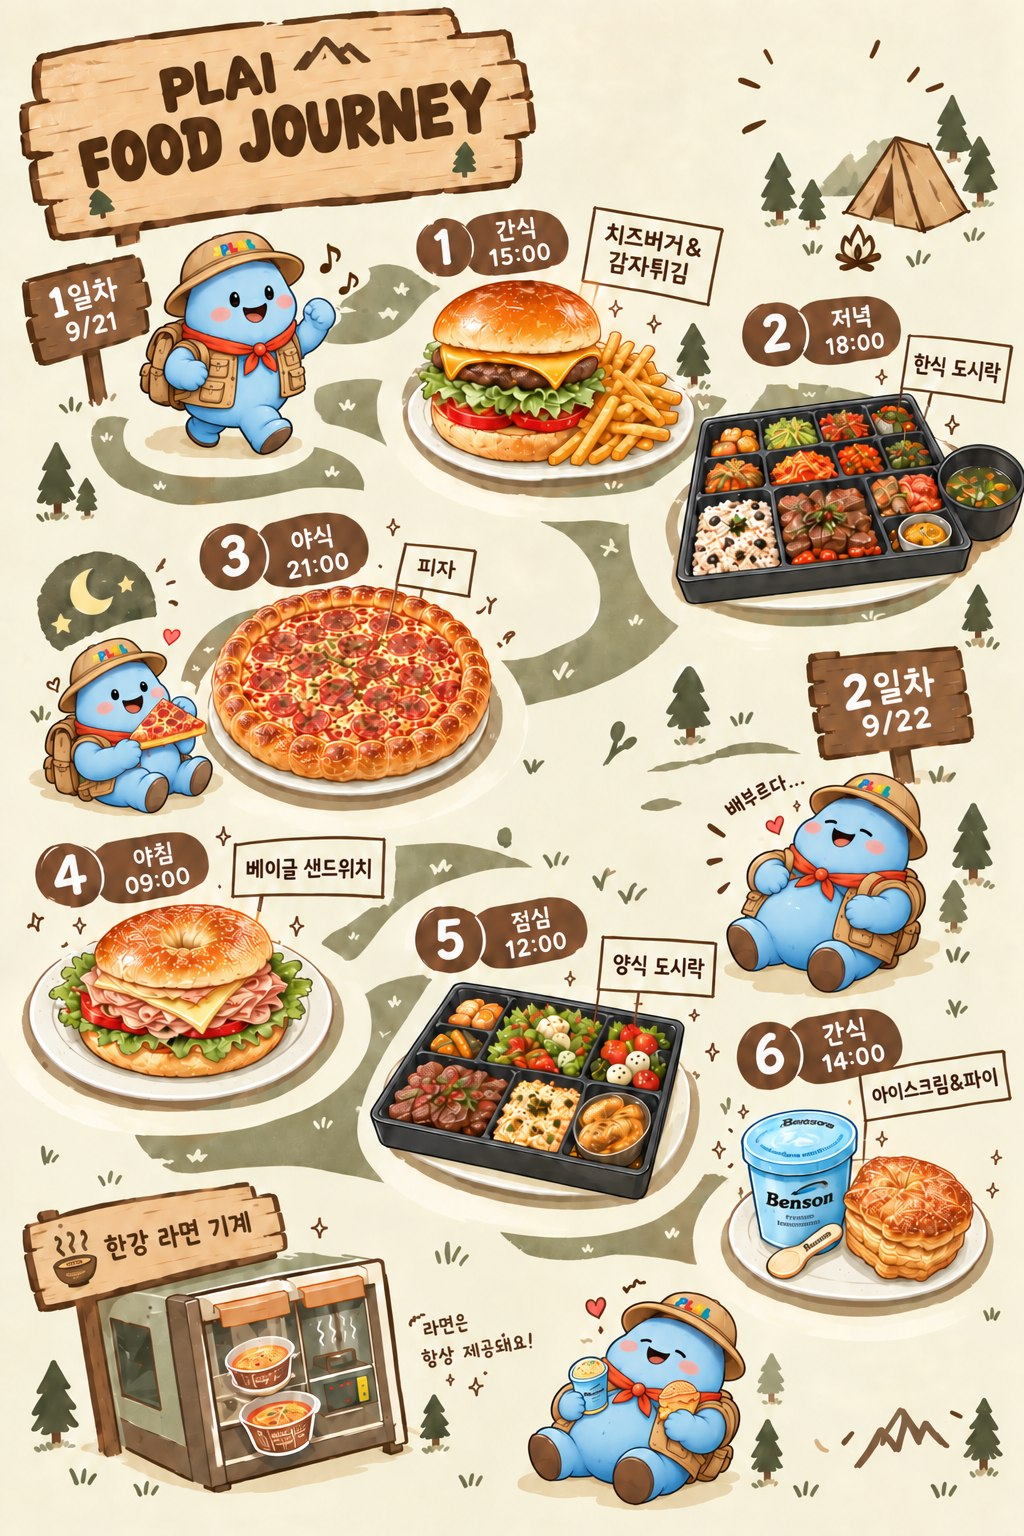
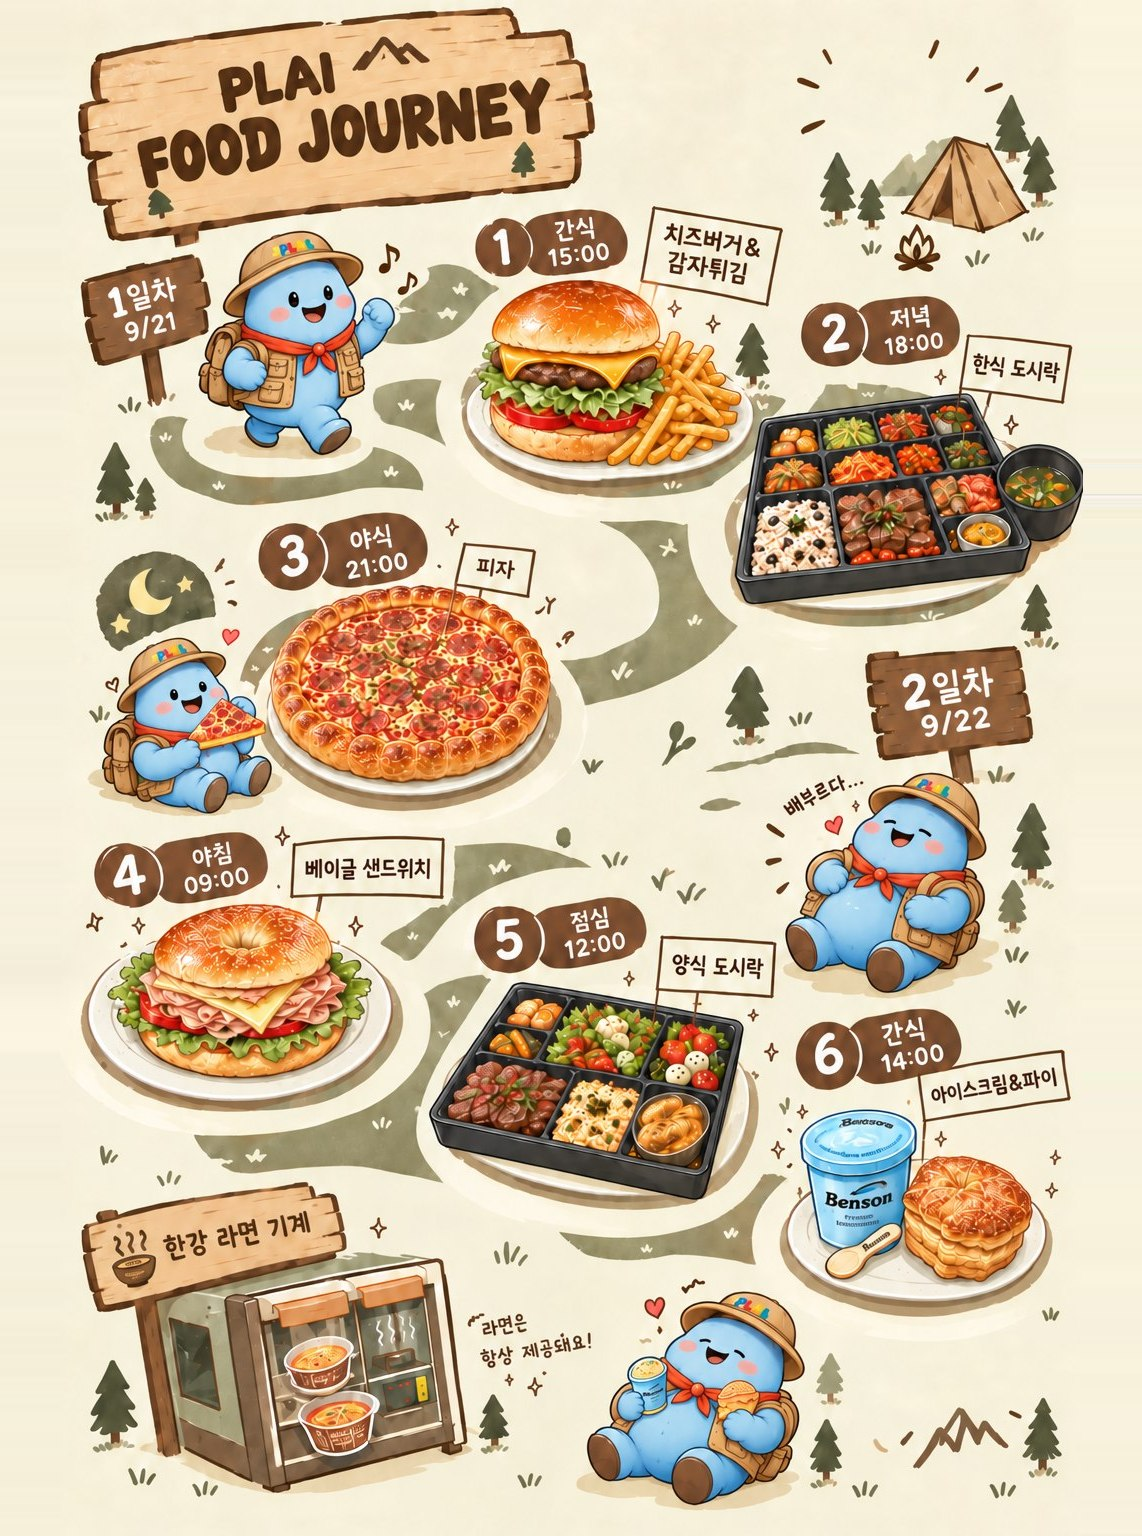
음식 여정 이미지를 타임테이블과 같은 비율로
폰에서 타임테이블은 한 화면에 들어오는데 음식 여정은 아래가 잘렸습니다.
세로가 더 길어서입니다 — 1024×1536(1.500) 대 1511×2032(1.345).

잘라내지 않고 좌우에 59px씩 여백을 더해 1142×1536(1.345)으로 맞췄습니다.
지도 내용은 한 점도 잃지 않습니다. 대신 폭에 맞춰 놓으면 그림이 10%
작아집니다 — 글씨를 키워 보려면 눌러서 원본을 여는 길이 그대로 있습니다.

여백은 줄마다 그 줄의 가장자리 색으로 칠했습니다. 단색으로 채우면 이음새가
보이고, 가장자리 한 줄을 통째로 늘리면 오른쪽 국그릇처럼 그림이 화면 끝에
닿은 줄에서 검은 띠가 생깁니다. 그런 줄(26개)만 배경색으로 남겼습니다.

diff --git a/admin-app/src/config.js b/admin-app/src/config.js
@@ -86,7 +86,7 @@ export const IMAGE_BOARDS = [
     label: '음식 여정',
     icon: '🗺',
     title: 'PLAI 음식 여정',
-    src: './board/food-journey.jpg',
+    src: './board/food-journey.jpg?v=2',
     alt: '음식 여정 지도 — 간식·저녁·야식·아침·점심·간식 순서와 시각',
     leagues: ['field', 'dev'],
   },

diff --git a/participant-app/src/config.js b/participant-app/src/config.js
@@ -86,7 +86,7 @@ export const IMAGE_BOARDS = [
     label: '음식 여정',
     icon: '🗺',
     title: 'PLAI 음식 여정',
-    src: './board/food-journey.jpg',
+    src: './board/food-journey.jpg?v=2',
     alt: '음식 여정 지도 — 간식·저녁·야식·아침·점심·간식 순서와 시각',
     leagues: ['field', 'dev'],
   },
